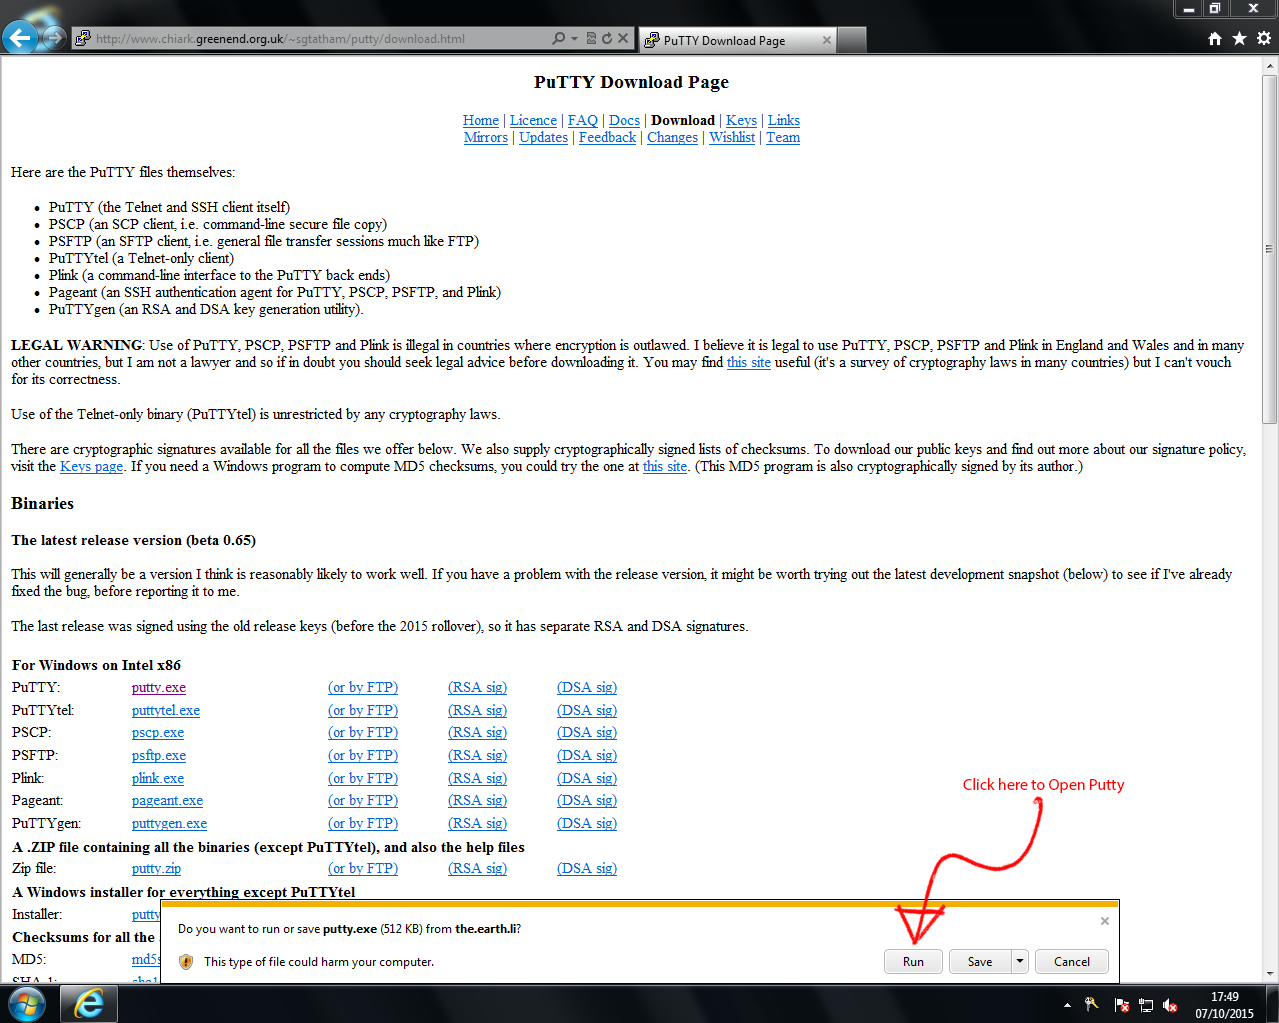
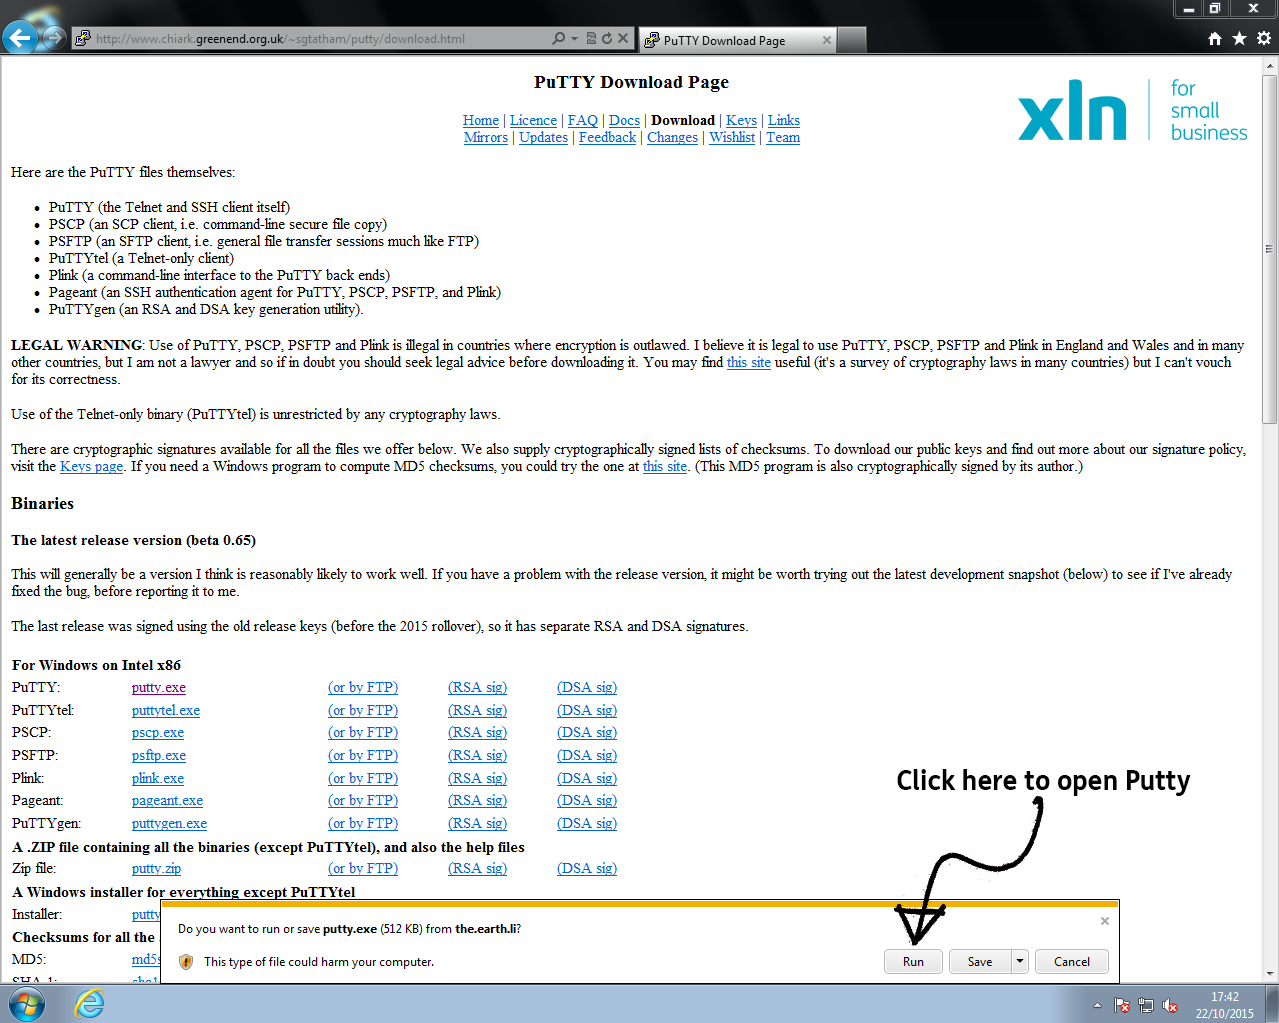
Added XLN Branding as Requested by SD

diff --git a/Putty/putty_commands_https.html b/Putty/putty_commands_https.html
@@ -12,29 +12,29 @@
 
 <img src="../Assets/https/1.PNG" alt="" width="1279" height="1023" usemap="#putty1Map" id="putty1"/>
 <map name="putty1Map">
-  <area shape="rect" coords="796,175,844,198" href="../index.html">
-  <area shape="rect" coords="924,313,1189,658" href="javascript:HideContent('putty1');ShowContent('putty2');">
+  <area shape="rect" coords="924,321,972,344" href="../index.html">
+  <area shape="rect" coords="999,337,1261,730" href="javascript:HideContent('putty1');ShowContent('putty2');">
 </map>
 <img src="../Assets/https/2.PNG" alt="" width="1279" height="1023" usemap="#putty2Map" id="putty2"/>
 <map name="putty3Map">
-  <area shape="rect" coords="793,175,848,200" href="../index.html">
-  <area shape="rect" coords="914,231,1209,657" href="javascript:HideContent('putty3');ShowContent('putty4');">
+  <area shape="rect" coords="918,321,973,346" href="../index.html">
+  <area shape="rect" coords="1020,333,1249,732" href="javascript:HideContent('putty3');ShowContent('putty4');">
 </map>
 <img src="../Assets/https/3.PNG" alt="" width="1279" height="1023" usemap="#putty3Map" id="putty3"/>
 <map name="putty2Map">
-  <area shape="rect" coords="792,176,847,201" href="../index.html">
-  <area shape="rect" coords="928,308,1200,657" href="javascript:HideContent('putty2');ShowContent('putty3');">
+  <area shape="rect" coords="917,319,972,344" href="../index.html">
+  <area shape="rect" coords="995,332,1260,726" href="javascript:HideContent('putty2');ShowContent('putty3');">
 </map>
 
 <img src="../Assets/https/4.PNG" alt="" width="1279" height="1023" usemap="#putty4Map" id="putty4"/>
 <map name="putty4Map">
-  <area shape="rect" coords="796,176,844,195" href="../index.html">
-  <area shape="rect" coords="937,322,1189,653" href="javascript:HideContent('putty4');ShowContent('putty5');">
+  <area shape="rect" coords="919,322,970,345" href="../index.html">
+  <area shape="rect" coords="1010,338,1261,731" href="javascript:HideContent('putty4');ShowContent('putty5');">
 </map>
 <img src="../Assets/https/5.PNG" alt="" width="1279" height="1023" usemap="#putty5Map" id="putty5"/>
 <map name="putty5Map">
-  <area shape="rect" coords="919,310,1184,656" href="putty_commands_end.html">
-  <area shape="rect" coords="798,177,845,197" href="../index.html">
+  <area shape="rect" coords="1018,334,1256,722" href="putty_commands_end.html">
+  <area shape="rect" coords="920,321,970,348" href="../index.html">
 </map>
 <div id="footer"></div>
 <script>

diff --git a/Putty/putty_commands_http.html b/Putty/putty_commands_http.html
@@ -12,29 +12,29 @@
 
 <img src="../Assets/http/1.PNG" alt="" width="1279" height="1023" usemap="#putty1Map" id="putty1"/>
 <map name="putty1Map">
-  <area shape="rect" coords="747,123,795,146" href="../index.html">
-  <area shape="rect" coords="924,313,1189,658" href="javascript:HideContent('putty1');ShowContent('putty2');">
+  <area shape="rect" coords="923,322,971,345" href="../index.html">
+  <area shape="rect" coords="1029,339,1248,728" href="javascript:HideContent('putty1');ShowContent('putty2');">
 </map>
 <img src="../Assets/http/2.PNG" alt="" width="1279" height="1023" usemap="#putty2Map" id="putty2"/>
 <map name="putty3Map">
-  <area shape="rect" coords="746,124,801,149" href="../index.html">
-  <area shape="rect" coords="914,231,1209,657" href="javascript:HideContent('putty3');ShowContent('putty4');">
+  <area shape="rect" coords="915,323,970,348" href="../index.html">
+  <area shape="rect" coords="1019,337,1245,738" href="javascript:HideContent('putty3');ShowContent('putty4');">
 </map>
 <img src="../Assets/http/3.PNG" alt="" width="1279" height="1023" usemap="#putty3Map" id="putty3"/>
 <map name="putty2Map">
-  <area shape="rect" coords="744,123,799,148" href="../index.html">
-  <area shape="rect" coords="928,308,1200,657" href="javascript:HideContent('putty2');ShowContent('putty3');">
+  <area shape="rect" coords="918,320,973,345" href="../index.html">
+  <area shape="rect" coords="1015,339,1248,726" href="javascript:HideContent('putty2');ShowContent('putty3');">
 </map>
 
 <img src="../Assets/http/4.PNG" alt="" width="1279" height="1023" usemap="#putty4Map" id="putty4"/>
 <map name="putty4Map">
-  <area shape="rect" coords="746,126,794,145" href="../index.html">
-  <area shape="rect" coords="937,322,1189,653" href="javascript:HideContent('putty4');ShowContent('putty5');">
+  <area shape="rect" coords="921,324,969,343" href="../index.html">
+  <area shape="rect" coords="1020,334,1247,727" href="javascript:HideContent('putty4');ShowContent('putty5');">
 </map>
 <img src="../Assets/http/5.PNG" alt="" width="1279" height="1023" usemap="#putty5Map" id="putty5"/>
 <map name="putty5Map">
-  <area shape="rect" coords="919,310,1184,656" href="putty_commands_end.html">
-  <area shape="rect" coords="746,125,793,148" href="../index.html">
+  <area shape="rect" coords="996,332,1252,724" href="putty_commands_end.html">
+  <area shape="rect" coords="924,321,971,344" href="../index.html">
 </map>
 <div id="footer"></div>
 <script>

diff --git a/Putty/putty_start.html b/Putty/putty_start.html
@@ -12,24 +12,24 @@
 
 <img src="../Assets/6.PNG" alt="" width="1279" height="1023" usemap="#putty1Map" id="putty1"/>
 <map name="putty1Map">
-  <area shape="rect" coords="847,224,895,247" href="../index.html">
-  <area shape="rect" coords="924,313,1189,658" href="javascript:HideContent('putty1');ShowContent('putty2');">
+  <area shape="rect" coords="921,323,969,346" href="../index.html">
+  <area shape="rect" coords="998,313,1269,699" href="javascript:HideContent('putty1');ShowContent('putty2');">
 </map>
 <img src="../Assets/7.PNG" alt="" width="1279" height="1023" usemap="#putty2Map" id="putty2"/>
 <map name="putty3Map">
-  <area shape="rect" coords="842,225,897,250" href="../index.html">
-  <area shape="rect" coords="914,231,1209,657" href="javascript:HideContent('putty3');ShowContent('putty4');">
+  <area shape="rect" coords="918,322,973,347" href="../index.html">
+  <area shape="rect" coords="981,327,1276,753" href="javascript:HideContent('putty3');ShowContent('putty4');">
 </map>
 <img src="../Assets/8.PNG" alt="" width="1279" height="1023" usemap="#putty3Map" id="putty3"/>
 <map name="putty2Map">
-  <area shape="rect" coords="842,226,897,251" href="../index.html">
-  <area shape="rect" coords="928,308,1200,657" href="javascript:HideContent('putty2');ShowContent('putty3');">
+  <area shape="rect" coords="917,321,972,346" href="../index.html">
+  <area shape="rect" coords="992,332,1271,698" href="javascript:HideContent('putty2');ShowContent('putty3');">
 </map>
 
 <img src="../Assets/9.PNG" alt="" width="1279" height="1023" usemap="#putty4Map" id="putty4"/>
 <map name="putty4Map">
-  <area shape="rect" coords="846,228,894,247" href="../index.html">
-  <area shape="rect" coords="938,321,1185,661" href="putty_commands.html">
+  <area shape="rect" coords="923,324,971,343" href="../index.html">
+  <area shape="rect" coords="996,339,1270,701" href="putty_commands.html">
 </map>
 <div id="footer"></div>
 <script>

diff --git a/Putty/putty_commands.html b/Putty/putty_commands.html
@@ -12,18 +12,18 @@
 
 <img src="../Assets/10.PNG" alt="" width="1279" height="1023" usemap="#putty1Map" id="putty1"/>
 <map name="putty1Map">
-  <area shape="rect" coords="747,123,795,146" href="../index.html">
-  <area shape="rect" coords="924,313,1189,658" href="javascript:HideContent('putty1');ShowContent('putty2');">
+  <area shape="rect" coords="924,321,972,344" href="../index.html">
+  <area shape="rect" coords="1026,332,1249,721" href="javascript:HideContent('putty1');ShowContent('putty2');">
 </map>
 <img src="../Assets/11.PNG" alt="" width="1279" height="1023" usemap="#putty2Map" id="putty2"/>
 <map name="putty3Map">
-  <area shape="rect" coords="746,124,801,149" href="../index.html">
-  <area shape="rect" coords="914,231,1209,657" href="putty_commands_selection.html">
+  <area shape="rect" coords="918,321,973,346" href="../index.html">
+  <area shape="rect" coords="1022,340,1247,724" href="putty_commands_selection.html">
 </map>
 <img src="../Assets/12.PNG" alt="" width="1279" height="1023" usemap="#putty3Map" id="putty3"/>
 <map name="putty2Map">
-  <area shape="rect" coords="744,123,799,148" href="../index.html">
-  <area shape="rect" coords="928,308,1200,657" href="javascript:HideContent('putty2');ShowContent('putty3');">
+  <area shape="rect" coords="919,322,974,347" href="../index.html">
+  <area shape="rect" coords="1022,339,1243,728" href="javascript:HideContent('putty2');ShowContent('putty3');">
 </map>
 <div id="footer"></div>
 <script>

diff --git a/Putty/putty_commands_end.html b/Putty/putty_commands_end.html
@@ -13,17 +13,17 @@
 
 <img src="../Assets/14-after.PNG" alt="" width="1279" height="1023" usemap="#putty1Map" id="putty1"/>
 <map name="putty1Map">
-  <area shape="rect" coords="796,175,844,198" href="../index.html">
-  <area class="continue" shape="rect" coords="924,313,1189,658" href="">
-  <area shape="rect" coords="628,4,1447,112" href="putty_commands_selection.html">
+  <area shape="rect" coords="921,320,969,343" href="../index.html">
+  <area class="continue" shape="rect" coords="1011,339,1260,728" href="">
+  <area shape="rect" coords="243,8,1062,116" href="putty_commands_selection.html">
 </map>
 <img src="../Assets/15.PNG" alt="" width="1279" height="1023" usemap="#putty2Map" id="putty2"/>
 <map name="putty3Map">
-  <area shape="rect" coords="791,176,846,201" href="../index.html">
+  <area shape="rect" coords="922,322,977,347" href="../index.html">
 </map>
 <img src="../Assets/16.PNG" alt="" width="1279" height="1023" usemap="#putty3Map" id="putty3"/>
 <map name="putty2Map">
-  <area shape="rect" coords="789,174,844,199" href="../index.html">
+  <area shape="rect" coords="919,321,974,346" href="../index.html">
 </map>
 <div id="footer"></div>
 <script>

diff --git a/Putty/putty_commands_selection.html b/Putty/putty_commands_selection.html
@@ -11,9 +11,9 @@
 <div id="header"></div>
 <img src="../Assets/13.PNG" alt="" width="1279" height="1023" usemap="#putty4Map" id="putty4"/>
 <map name="putty4Map">
-  <area shape="rect" coords="746,126,794,145" href="../index.html">
-  <area shape="rect" coords="253,893,479,974" href="putty_commands_http.html">
-  <area shape="rect" coords="594,896,820,974" href="putty_commands_https.html">
+  <area shape="rect" coords="923,323,971,342" href="../index.html">
+  <area shape="rect" coords="216,794,442,875" href="putty_commands_http.html">
+  <area shape="rect" coords="829,792,1055,870" href="putty_commands_https.html">
 </map>
 <div id="footer"></div>
 </body>
